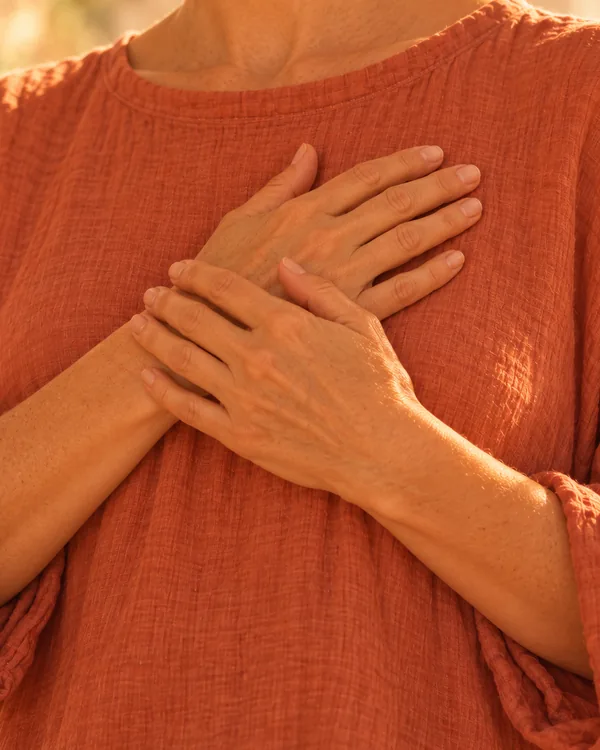
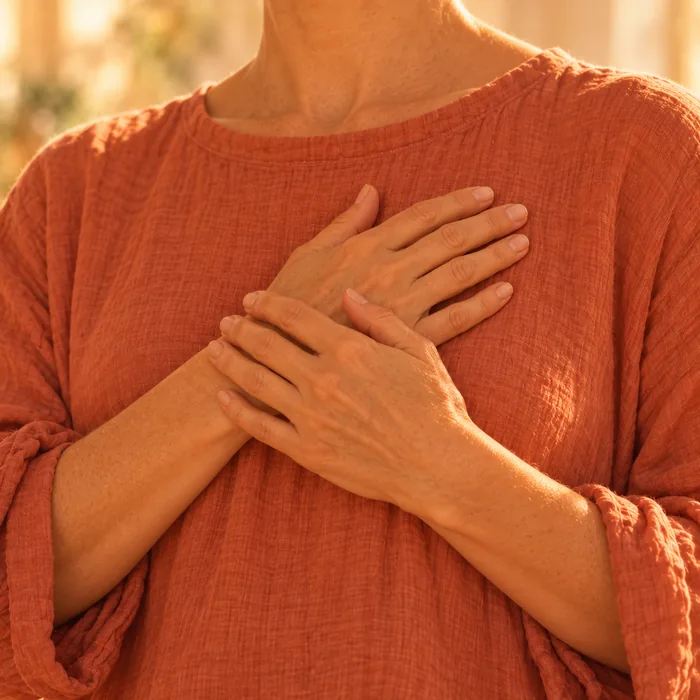
כרטיסי "אז מה זה בעצם?": שלוש צורות שונות (בועה זורמת, עיגול, עלה) + חיתוכים רחבים יותר (רגל, צוואר)

diff --git a/v3/index.html b/v3/index.html
@@ -314,6 +314,19 @@
     .arch{ border-radius:999px 999px var(--r-md) var(--r-md); overflow:hidden; }
     .arch img{ display:block; width:100%; height:100%; object-fit:cover; }
 
+    /* ===== שלוש צורות שונות לכרטיסי "אז מה זה בעצם?": בועה זורמת (זזים), עיגול (נפגשים), עלה (מגלים) ===== */
+    .shape{ overflow:hidden; box-shadow:0 26px 50px -34px rgba(63,56,47,.55); }
+    .shape img{ display:block; width:100%; height:100%; object-fit:cover; }
+    .shape-blob{ border-radius:58% 42% 55% 45% / 48% 58% 42% 52%; animation:blob 14s ease-in-out infinite; }
+    @keyframes blob{
+      0%,100%{ border-radius:58% 42% 55% 45% / 48% 58% 42% 52%; }
+      33%    { border-radius:44% 56% 40% 60% / 58% 42% 60% 40%; }
+      66%    { border-radius:52% 48% 62% 38% / 42% 52% 48% 58%; }
+    }
+    .shape-circle{ border-radius:50%; }
+    .shape-leaf{ border-radius:62% 0 62% 0; }
+    @media (prefers-reduced-motion: reduce){ .shape-blob{ animation:none; } }
+
     /* ===== CTA דביק במובייל — מופיע אחרי ה-Hero ונעלם ליד הטופס ===== */
     .sticky-cta{
       position:fixed; inset-inline:0; bottom:0; z-index:40;
@@ -496,17 +509,17 @@
         <h2 class="h-sect text-center mb-8 md:mb-12 reveal">אז מה זה בעצם?</h2>
         <div class="grid md:grid-cols-3 gap-5 md:gap-6">
           <article class="card-soft p-5 pb-8 md:p-6 md:pb-9 reveal">
-            <div class="arch aspect-[4/5] mb-6 -mx-1"><img src="../images/crop-movement.webp" width="600" height="800" loading="lazy" alt="חצאית מתנופפת ורגליים יחפות באמצע ריקוד"></div>
+            <div class="shape shape-blob aspect-square mb-6 mx-auto w-[88%]"><img src="../images/crop-movement.webp" width="700" height="700" loading="lazy" alt="חצאית מתנופפת ורגליים יחפות באמצע ריקוד"></div>
             <h3 class="h-card mb-2 px-3">זזים</h3>
             <p class="muted px-3">מוזיקה טובה ותרגילים פשוטים שמוציאים מהראש ומכניסים לגוף</p>
           </article>
           <article class="card-soft p-5 pb-8 md:p-6 md:pb-9 reveal" style="transition-delay:.08s">
-            <div class="arch aspect-[4/5] mb-6 -mx-1"><img src="../images/fingertips.webp" width="600" height="750" loading="lazy" alt="שתי ידיים נפגשות בקצות האצבעות באור חם"></div>
+            <div class="shape shape-circle aspect-square mb-6 mx-auto w-[88%]"><img src="../images/fingertips.webp" width="600" height="750" loading="lazy" alt="שתי ידיים נפגשות בקצות האצבעות באור חם"></div>
             <h3 class="h-card mb-2 px-3">נפגשים</h3>
             <p class="muted px-3">אותם פנים מוכרות, ומדי פעם גם פנים חדשות. הקשר נבנה לבד</p>
           </article>
           <article class="card-soft p-5 pb-8 md:p-6 md:pb-9 reveal" style="transition-delay:.16s">
-            <div class="arch aspect-[4/5] mb-6 -mx-1"><img src="../images/hands-heart.webp" width="600" height="750" loading="lazy" alt="שתי ידיים מונחות על הלב"></div>
+            <div class="shape shape-leaf aspect-square mb-6 mx-auto w-[88%]"><img src="../images/hands-heart.webp" width="700" height="700" loading="lazy" alt="שתי ידיים מונחות על הלב"></div>
             <h3 class="h-card mb-2 px-3">מגלים</h3>
             <p class="muted px-3">פוגשים את עצמנו מחדש, וכל מפגש מלמד משהו חדש</p>
           </article>

diff --git a/index.html b/index.html
@@ -313,6 +313,19 @@
     .arch{ border-radius:999px 999px var(--r-md) var(--r-md); overflow:hidden; }
     .arch img{ display:block; width:100%; height:100%; object-fit:cover; }
 
+    /* ===== שלוש צורות שונות לכרטיסי "אז מה זה בעצם?": בועה זורמת (זזים), עיגול (נפגשים), עלה (מגלים) ===== */
+    .shape{ overflow:hidden; box-shadow:0 26px 50px -34px rgba(63,56,47,.55); }
+    .shape img{ display:block; width:100%; height:100%; object-fit:cover; }
+    .shape-blob{ border-radius:58% 42% 55% 45% / 48% 58% 42% 52%; animation:blob 14s ease-in-out infinite; }
+    @keyframes blob{
+      0%,100%{ border-radius:58% 42% 55% 45% / 48% 58% 42% 52%; }
+      33%    { border-radius:44% 56% 40% 60% / 58% 42% 60% 40%; }
+      66%    { border-radius:52% 48% 62% 38% / 42% 52% 48% 58%; }
+    }
+    .shape-circle{ border-radius:50%; }
+    .shape-leaf{ border-radius:62% 0 62% 0; }
+    @media (prefers-reduced-motion: reduce){ .shape-blob{ animation:none; } }
+
     /* ===== CTA דביק במובייל — מופיע אחרי ה-Hero ונעלם ליד הטופס ===== */
     .sticky-cta{
       position:fixed; inset-inline:0; bottom:0; z-index:40;
@@ -495,17 +508,17 @@
         <h2 class="h-sect text-center mb-8 md:mb-12 reveal">אז מה זה בעצם?</h2>
         <div class="grid md:grid-cols-3 gap-5 md:gap-6">
           <article class="card-soft p-5 pb-8 md:p-6 md:pb-9 reveal">
-            <div class="arch aspect-[4/5] mb-6 -mx-1"><img src="images/crop-movement.webp" width="600" height="800" loading="lazy" alt="חצאית מתנופפת ורגליים יחפות באמצע ריקוד"></div>
+            <div class="shape shape-blob aspect-square mb-6 mx-auto w-[88%]"><img src="images/crop-movement.webp" width="700" height="700" loading="lazy" alt="חצאית מתנופפת ורגליים יחפות באמצע ריקוד"></div>
             <h3 class="h-card mb-2 px-3">זזים</h3>
             <p class="muted px-3">מוזיקה טובה ותרגילים פשוטים שמוציאים מהראש ומכניסים לגוף</p>
           </article>
           <article class="card-soft p-5 pb-8 md:p-6 md:pb-9 reveal" style="transition-delay:.08s">
-            <div class="arch aspect-[4/5] mb-6 -mx-1"><img src="images/fingertips.webp" width="600" height="750" loading="lazy" alt="שתי ידיים נפגשות בקצות האצבעות באור חם"></div>
+            <div class="shape shape-circle aspect-square mb-6 mx-auto w-[88%]"><img src="images/fingertips.webp" width="600" height="750" loading="lazy" alt="שתי ידיים נפגשות בקצות האצבעות באור חם"></div>
             <h3 class="h-card mb-2 px-3">נפגשים</h3>
             <p class="muted px-3">אותם פנים מוכרות, ומדי פעם גם פנים חדשות. הקשר נבנה לבד</p>
           </article>
           <article class="card-soft p-5 pb-8 md:p-6 md:pb-9 reveal" style="transition-delay:.16s">
-            <div class="arch aspect-[4/5] mb-6 -mx-1"><img src="images/hands-heart.webp" width="600" height="750" loading="lazy" alt="שתי ידיים מונחות על הלב"></div>
+            <div class="shape shape-leaf aspect-square mb-6 mx-auto w-[88%]"><img src="images/hands-heart.webp" width="700" height="700" loading="lazy" alt="שתי ידיים מונחות על הלב"></div>
             <h3 class="h-card mb-2 px-3">מגלים</h3>
             <p class="muted px-3">פוגשים את עצמנו מחדש, וכל מפגש מלמד משהו חדש</p>
           </article>

diff --git a/CLAUDE.md b/CLAUDE.md
@@ -19,7 +19,7 @@
 - **CTA אחד בכל העמוד:** "אני רוצה לשמוע עוד פרטים" (לא מחייב; Hero, פאנל ההזמנה, CTA דביק במובייל) → וואטסאפ להדר.
 - **סדר העמוד:** Hero → `#what` "אז מה זה בעצם?" (זזים / נפגשים / מגלים) → `#session` 5 שלבים → `#experience` → `#who` → `#human` מבוכה + סרטון → `#facilitators` "מי מחזיק את המרחב?" → `#register` "אולי זה הזמן להכניס קצת תנועה" → FAQ.
 - תמונת Hero: `images/biodanza-hero.webp` (+ `-720`), תמונת שיתוף `images/og-v3.jpg`.
-- שלושת הכרטיסים של "אז מה זה בעצם?" במסגרות **קשת** (`.arch`): זזים = `images/crop-movement.webp` (חיתוך מה-Hero), נפגשים = `images/fingertips.webp` (קצות אצבעות נפגשות), מגלים = `images/hands-heart.webp` (ידיים על הלב). התמונות החדשות נוצרו ב-ChatGPT בצבעי האתר.
+- שלושת הכרטיסים של "אז מה זה בעצם?" — **כל תמונה בצורה אחרת** (`.shape`): זזים = בועה שמשנה צורה לאט (`.shape-blob`), נפגשים = עיגול (`.shape-circle`), מגלים = עלה (`.shape-leaf`). תמונות ריבועיות: זזים = `images/crop-movement.webp` (חיתוך מה-Hero), נפגשים = `images/fingertips.webp` (קצות אצבעות נפגשות), מגלים = `images/hands-heart.webp` (ידיים על הלב). התמונות החדשות נוצרו ב-ChatGPT בצבעי האתר.
 - נגיעות כתב יד ב-Amatic SC (`.hand` / `.sticker`): "הכניסה למי שלא בזוגיות ♡" על תמונת ה-Hero (המקום הגלוי היחיד שמציין למי המפגשים מיועדים, מלבד ה-FAQ).
 - ב-H1, **"תנועה חדשה"** (`.key`) בשורה משלה, גדול יותר, ב**גרדיאנט ירוק** (olive→sage), טקסט נקי בלי אפקט מתחתיו; קודם מופיעות **שלוש נקודות** אחרי "שלך" (`.dots`, מעוגנות למילה "שלך"), פועמות ומתמוססות, ואז "תנועה חדשה" נכנסת בחשיפה רכה מימין לשמאל (mask), **בלי קפיצות אותיות ובלי תזוזה אנכית**. רצף התזמונים (הדף "מצטייר" מלמעלה למטה, אלמנט אחרי אלמנט): מילים 0.1–0.7s · נקודות 0.85–2.6s · "תנועה חדשה" 2.05s · "?" 3.15s · אלמנט התנועה 3.35s · שורות ה-Hero 4.25/4.55/4.85/5.15s · כפתור 5.5s · תמונה 5.85s (דסקטופ 4.25s) · סטריפ מילים 6.2s. גלילה (או 7.3s) מבטלת את כל ההשהיות (`.intro-done`).
 - מתחת ל-H1: **אלמנט תנועה מופשט** (`svg.flow`) — 3 סרטי צבע שקופים (terra/coral, sage, dusty) שמשנים צורה ב-SMIL `<animate d>`, עם blur קל ו-multiply. בלי עצמים (עלים/נקודות) — רק אנרגיה של תנועה. נעצר ב-reduced motion (`pauseAnimations`).
